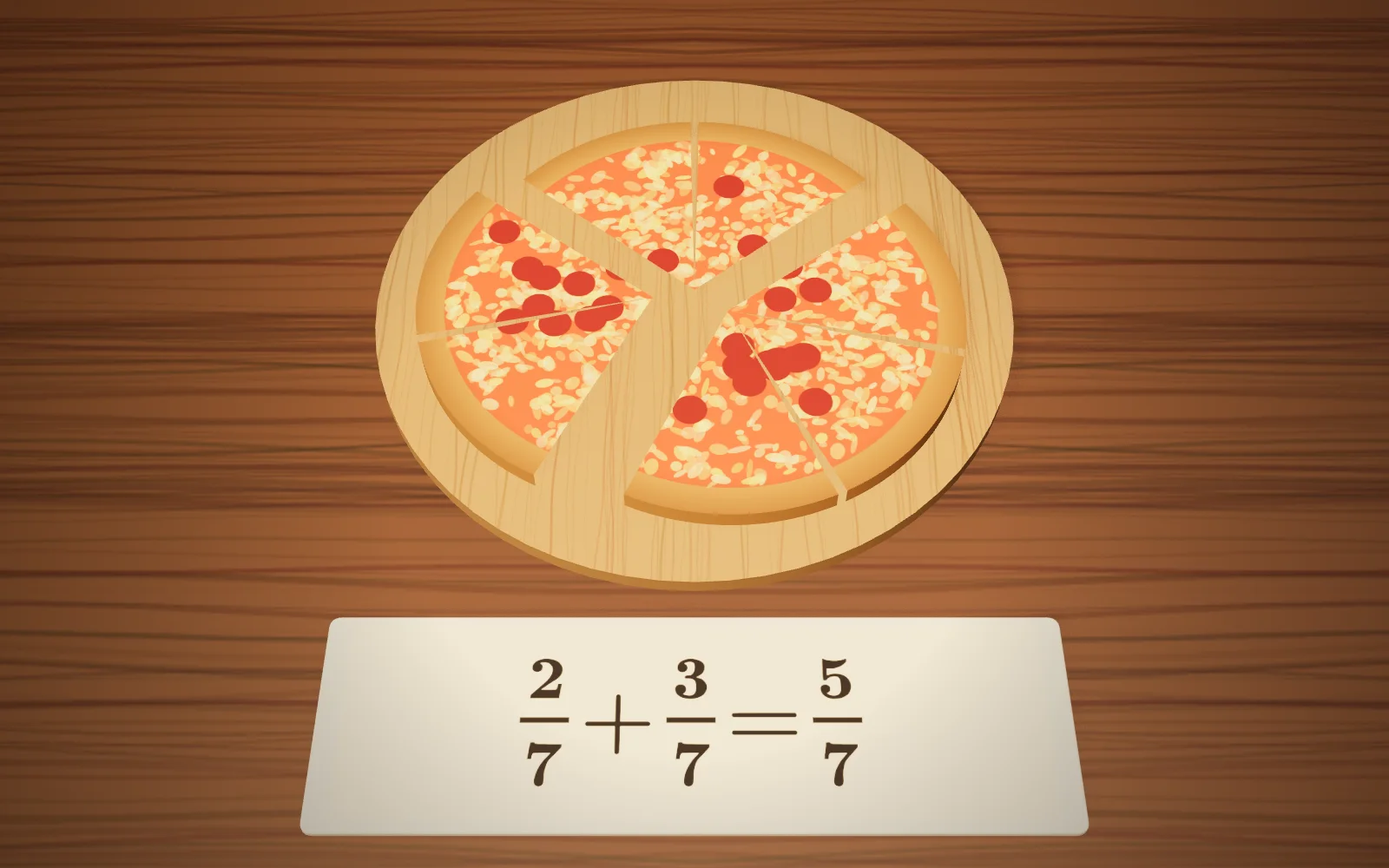
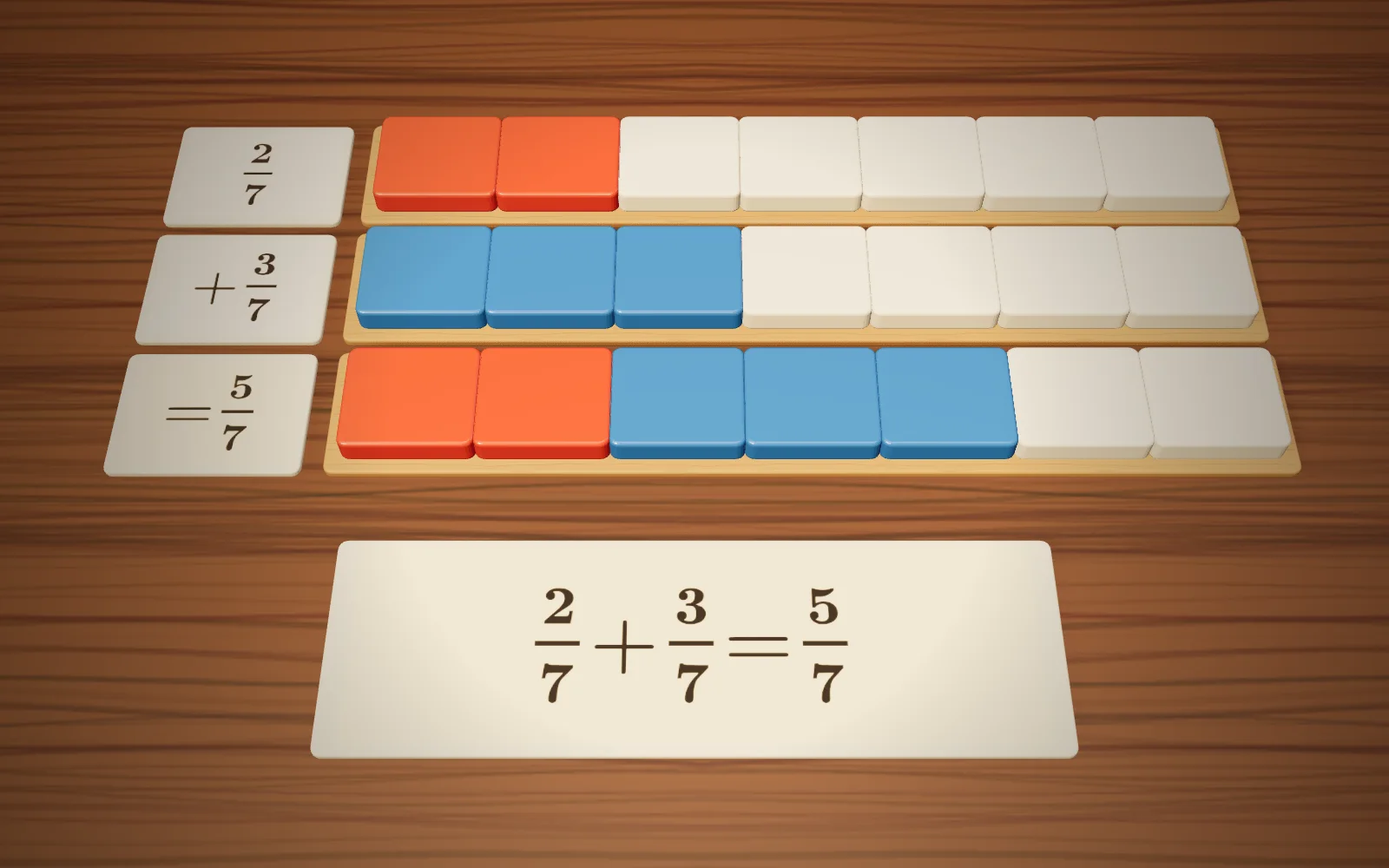
수의 마법 C-21 수업 그림·글: 피자 → 분수 막대, C-22 서술 문제 말도 막대로
- C-21 3D 장면: 7조각으로 나눈 막대 세 줄(빨강 2 · 파랑 3 · 합친 5), 줄 앞 이름표, 식 카드
- 움직임: 두 무리가 셋째 줄 위로 가서 합쳐지는 것을 보여 주고 돌아온다
- C-21 수업 글·서술 문제·힌트(ko·en·zh)의 피자 이야기를 분수 막대로 고침
- C-22 서술 문제의 「피자 그림으로」를 「분수 막대 그림으로」
- 정지 그림·그림 설명 글·오프라인 목록 갱신

Claude-Session: https://claude.ai/code/session_01T6HCktzZTCy63PeQAnPr61

diff --git a/number_magic/data/units/C-21.js b/number_magic/data/units/C-21.js
@@ -8,7 +8,7 @@ window.NM_UNITS['C-21'] = {
   generator:'ml_frac_same',
   title:{ ko:'분수 덧뺄셈 (같은 분모)', en:'Fractions: Same Denominator', zh:'分数加减法(同分母)' },
   subtitle:{ ko:'분모가 같으면 분자끼리만! 2/7 + 3/7 = 5/7', en:'Same denominator? Just add the numerators! 2/7 + 3/7 = 5/7', zh:'分母相同就只加分子！2/7 + 3/7 = 5/7' },
-  icon:'🍕',
+  icon:'📏',
 
   practice:{
     generator:'ml_frac_same', level:'practice', count:5,
@@ -31,11 +31,11 @@ window.NM_UNITS['C-21'] = {
     },
     title:{ ko:'누미의 마법 노트', en:"Numi's Magic Note", zh:'努米的魔法笔记' },
     stages:[
-      { tag:{ko:'① 분수는 피자 조각',en:'1) Fractions are pizza slices',zh:'① 分数是披萨块'},
-        head:{ko:'2/7 = 7조각 중 2조각',en:'2/7 = 2 slices out of 7',zh:'2/7 = 7块中的2块'},
-        desc:{ko:'피자 한 판을 <b>7조각</b>으로 잘랐어요. 내가 2조각을 가지면 <b>2/7</b>. 아래 수(분모 7)는 <b>조각의 크기</b>(한 판을 몇 개로 잘랐나), 위 수(분자 2)는 <b>내가 가진 개수</b>예요. 분수를 읽을 때 항상 "몇 조각짜리 중의 몇 개"로 떠올려요!',
-              en:'A pizza cut into <b>7 slices</b>. Take 2 slices — that\'s <b>2/7</b>. The bottom number (denominator 7) is the <b>slice size</b> (how many cuts per pizza); the top (numerator 2) is <b>how many you hold</b>. Always read a fraction as "this many pieces of that size"!',
-              zh:'一张披萨切成<b>7块</b>。我拿2块就是<b>2/7</b>。下面的数(分母7)是<b>块的大小</b>(一张切成几块)，上面的数(分子2)是<b>我拿的个数</b>。读分数时永远想成"某种大小的块拿了几个"！'},
+      { tag:{ko:'① 분수는 막대 조각',en:'1) Fractions are bar pieces',zh:'① 分数是分数条的块'},
+        head:{ko:'2/7 = 7조각 중 2조각',en:'2/7 = 2 pieces out of 7',zh:'2/7 = 7块中的2块'},
+        desc:{ko:'분수 막대 한 줄을 똑같이 <b>7조각</b>으로 나눴어요. 내가 2조각을 가지면 <b>2/7</b>. 아래 수(분모 7)는 <b>조각의 크기</b>(한 줄을 몇 개로 나눴나), 위 수(분자 2)는 <b>내가 가진 개수</b>예요. 분수를 읽을 때 항상 "몇 조각짜리 중의 몇 개"로 떠올려요!',
+              en:'A fraction bar cut into <b>7 equal pieces</b>. Take 2 pieces — that\'s <b>2/7</b>. The bottom number (denominator 7) is the <b>piece size</b> (how many pieces the bar is cut into); the top (numerator 2) is <b>how many you hold</b>. Always read a fraction as "this many pieces of that size"!',
+              zh:'一条分数条平均分成<b>7块</b>。我拿2块就是<b>2/7</b>。下面的数(分母7)是<b>块的大小</b>(一条分成几块)，上面的数(分子2)是<b>我拿的个数</b>。读分数时永远想成"某种大小的块拿了几个"！'},
         mathSteps:[{ko:'\\text{분모 = 조각 크기 (몇 등분?)}',en:'\\text{denominator = size of piece (cut into how many?)}',zh:'\\text{分母 = 每块的大小（分成几份？）}'},{ko:'\\text{분자 = 조각 개수 (몇 개?)}',en:'\\text{numerator = number of pieces (how many?)}',zh:'\\text{分子 = 块数（有几块？）}'},{ko:'\\dfrac{2}{7} = \\text{7등분 중 2개}',en:'\\dfrac{2}{7} = \\text{2 of 7 equal parts}',zh:'\\dfrac{2}{7} = \\text{7份中的2份}'}],
         result:{ko:'분모는 크기, 분자는 개수! 이것만 기억하면 분수가 쉬워요.',en:'Denominator = size, numerator = count! Remember this and fractions get easy.',zh:'分母是大小，分子是个数！记住这个，分数就简单。'},
         book:{ko:'분모(分母)는 "나눈 어머니", 분자(分子)는 "가진 아이"라는 한자예요. 어머니(분모)가 조각 세계를 만들고, 아이(분자)가 그 안에서 개수를 세요.',
@@ -44,20 +44,20 @@ window.NM_UNITS['C-21'] = {
 
       { tag:{ko:'② 같은 크기면 개수만 더해요',en:'2) Same size → just add counts',zh:'② 大小相同→只加个数'},
         head:{ko:'2/7 + 3/7 = 5/7 (분모는 그대로!)',en:'2/7 + 3/7 = 5/7 (denominator unchanged!)',zh:'2/7 + 3/7 = 5/7（分母不变！）'},
-        desc:{ko:'2조각 + 3조각 = 5조각. 조각의 <b>크기(분모)는 변하지 않으니</b> 2/7+3/7 = <b>5/7</b>. 가장 흔한 실수는 분모까지 더해서 5/14라고 하는 것! 피자로 생각해요 — 조각을 합쳐도 <b>피자가 더 잘게 잘리진 않죠?</b> 분모는 절대 더하지 않아요!',
-              en:'2 slices + 3 slices = 5 slices. The <b>size (denominator) doesn\'t change</b>, so 2/7+3/7 = <b>5/7</b>. The classic mistake is adding denominators to get 5/14! Think pizza — combining slices <b>doesn\'t re-cut the pizza finer</b>, does it? Never add the denominators!',
-              zh:'2块+3块=5块。块的<b>大小(分母)不变</b>，所以2/7+3/7 = <b>5/7</b>。最常见的错误是把分母也加起来得5/14！想想披萨——把块合起来<b>披萨不会被切得更碎</b>吧？分母绝对不加！'},
+        desc:{ko:'2조각 + 3조각 = 5조각. 조각의 <b>크기(분모)는 변하지 않으니</b> 2/7+3/7 = <b>5/7</b>. 가장 흔한 실수는 분모까지 더해서 5/14라고 하는 것! 막대로 생각해요 — 조각을 합쳐도 <b>막대가 더 잘게 나뉘진 않죠?</b> 분모는 절대 더하지 않아요!',
+              en:'2 pieces + 3 pieces = 5 pieces. The <b>size (denominator) doesn\'t change</b>, so 2/7+3/7 = <b>5/7</b>. The classic mistake is adding denominators to get 5/14! Think of the bar — combining pieces <b>doesn\'t cut the bar any finer</b>, does it? Never add the denominators!',
+              zh:'2块+3块=5块。块的<b>大小(分母)不变</b>，所以2/7+3/7 = <b>5/7</b>。最常见的错误是把分母也加起来得5/14！想想分数条——把块合起来<b>分数条不会被分得更碎</b>吧？分母绝对不加！'},
         mathSteps:['\\dfrac{2}{7} + \\dfrac{3}{7}','= \\dfrac{2+3}{7}','= \\dfrac{5}{7}'],
         result:{ko:'분자끼리만 더하기! 분모는 조각 크기라 그대로예요.',en:'Add numerators only! The denominator is the size — it stays.',zh:'只加分子！分母是块的大小，保持不变。'},
-        book:{ko:'주의: 답이 가분수가 되면(예: 4/5+3/5=7/5) 대분수 1과 2/5로 바꿔 쓸 수 있어요. 분자가 분모보다 크면 "피자 한 판이 넘는다"는 뜻!',
-              en:'Note: if the sum tops the denominator (4/5+3/5=7/5), you can rewrite it as the mixed number 1 and 2/5 — "more than one whole pizza"!',
-              zh:'注意：结果成假分数时(4/5+3/5=7/5)可写成带分数1又2/5——表示"超过一整张披萨"！'} },
+        book:{ko:'주의: 답이 가분수가 되면(예: 4/5+3/5=7/5) 대분수 1과 2/5로 바꿔 쓸 수 있어요. 분자가 분모보다 크면 "막대 한 줄이 넘는다"는 뜻!',
+              en:'Note: if the sum tops the denominator (4/5+3/5=7/5), you can rewrite it as the mixed number 1 and 2/5 — "more than one whole bar"!',
+              zh:'注意：结果成假分数时(4/5+3/5=7/5)可写成带分数1又2/5——表示"超过一整条"！'} },
 
       { tag:{ko:'③ 뺄셈도 똑같아요',en:'3) Subtraction works the same',zh:'③ 减法也一样'},
         head:{ko:'5/8 − 2/8 = 3/8',en:'5/8 − 2/8 = 3/8',zh:'5/8 − 2/8 = 3/8'},
-        desc:{ko:'빼기도 마찬가지! 5조각에서 2조각을 먹으면 3조각 남아요: 5/8−2/8 = <b>3/8</b>. 규칙은 하나 — <b>분모가 같을 때는 분자끼리만 계산</b>. 덧셈이든 뺄셈이든 조각의 크기는 변하지 않으니까요.',
-              en:'Subtracting is the same! Eat 2 of your 5 slices and 3 remain: 5/8−2/8 = <b>3/8</b>. One rule — <b>with equal denominators, operate on numerators only</b>. Adding or subtracting, the slice size never changes.',
-              zh:'减法也一样！5块吃掉2块剩3块：5/8−2/8 = <b>3/8</b>。规则只有一条——<b>分母相同时只算分子</b>。不管加还是减，块的大小都不变。'},
+        desc:{ko:'빼기도 마찬가지! 5조각에서 2조각을 덜어 내면 3조각 남아요: 5/8−2/8 = <b>3/8</b>. 규칙은 하나 — <b>분모가 같을 때는 분자끼리만 계산</b>. 덧셈이든 뺄셈이든 조각의 크기는 변하지 않으니까요.',
+              en:'Subtracting is the same! Take 2 of your 5 pieces away and 3 remain: 5/8−2/8 = <b>3/8</b>. One rule — <b>with equal denominators, operate on numerators only</b>. Adding or subtracting, the slice size never changes.',
+              zh:'减法也一样！5块拿走2块剩3块：5/8−2/8 = <b>3/8</b>。规则只有一条——<b>分母相同时只算分子</b>。不管加还是减，块的大小都不变。'},
         mathSteps:['\\dfrac{5}{8} - \\dfrac{2}{8}','= \\dfrac{5-2}{8}','= \\dfrac{3}{8}'],
         result:{ko:'5/8−2/8=3/8! 빼기도 분자끼리만.',en:'5/8−2/8=3/8! Subtract numerators only.',zh:'5/8−2/8=3/8！减法也只算分子。'},
         book:null }
@@ -74,12 +74,12 @@ window.NM_UNITS['C-21'] = {
       { tex:'\\dfrac{7}{10} - \\dfrac{3}{10} = \\dfrac{\\square}{10}', answer:4,
         hint:{ ko:'분자만: 7−3=?', en:'Numerators only: 7−3=?', zh:'只算分子：7−3=？' } }
     ],
-    open:{ ko:'친구가 1/4 + 2/4 = 3/8이라고 답했어요. 피자 그림으로 왜 틀렸는지 설명해 봐요.',
-      en:'A friend claims 1/4 + 2/4 = 3/8. Use a pizza picture to explain the mistake.',
-      zh:'朋友说1/4 + 2/4 = 3/8。用披萨图解释为什么错了。' },
-    openHint:{ ko:'예) 4등분 피자에서 1조각+2조각=3조각, 즉 3/4. 조각을 모아도 피자가 8등분으로 변하지 않아요. 분모를 더한 3/8은 실제(3/4)의 절반밖에 안 돼요!',
-      en:'e.g. On a pizza cut in 4: 1 slice + 2 slices = 3 slices = 3/4. Combining slices doesn\'t re-cut the pizza into 8. The "3/8" answer is only half the true amount (3/4)!',
-      zh:'例）切成4块的披萨：1块+2块=3块，即3/4。合并块不会把披萨变成8等分。加了分母的3/8只有真实量(3/4)的一半！' }
+    open:{ ko:'친구가 1/4 + 2/4 = 3/8이라고 답했어요. 분수 막대 그림으로 왜 틀렸는지 설명해 봐요.',
+      en:'A friend claims 1/4 + 2/4 = 3/8. Use a fraction-bar picture to explain the mistake.',
+      zh:'朋友说1/4 + 2/4 = 3/8。用分数条图解释为什么错了。' },
+    openHint:{ ko:'예) 4등분 막대에서 1조각+2조각=3조각, 즉 3/4. 조각을 모아도 막대가 8등분으로 변하지 않아요. 분모를 더한 3/8은 실제(3/4)의 절반밖에 안 돼요!',
+      en:'e.g. On a bar cut in 4: 1 piece + 2 pieces = 3 pieces = 3/4. Combining pieces doesn\'t re-cut the bar into 8. The "3/8" answer is only half the true amount (3/4)!',
+      zh:'例）分成4块的分数条：1块+2块=3块，即3/4。合并块不会把分数条变成8等分。加了分母的3/8只有真实量(3/4)的一半！' }
   },
 
   lab:{
@@ -101,7 +101,7 @@ window.NM_UNITS['C-21'] = {
   stamp:{ label:{ ko:'분수 견습생', en:'Fraction Apprentice', zh:'分数学徒' }, coins:30 },
 
   voice:{
-    correct:[ {ko:'정답이야! ✨',en:'Correct!',zh:'答对了！'}, {ko:'조각을 잘 셌어! 🍕',en:'Counted the slices!',zh:'块数得好！'}, {ko:'대단해! 🌟',en:'Amazing!',zh:'太棒了！'} ],
+    correct:[ {ko:'정답이야! ✨',en:'Correct!',zh:'答对了！'}, {ko:'조각을 잘 셌어! 👏',en:'Counted the pieces!',zh:'块数得好！'}, {ko:'대단해! 🌟',en:'Amazing!',zh:'太棒了！'} ],
     wrong:[ {ko:'분모는 그대로야!',en:'The denominator stays!',zh:'分母不变！'}, {ko:'분자끼리만 계산해봐!',en:'Operate on numerators only!',zh:'只算分子！'} ],
     finish:{ ko:'완벽해! 분수 견습생 합격! 🍕✨', en:'Perfect! Fraction Apprentice!', zh:'完美！分数学徒过关！' }
   }

diff --git a/number_magic/app/hero3d/scenes-e2.js b/number_magic/app/hero3d/scenes-e2.js
@@ -158,49 +158,48 @@ export const SCENES_E2 = {
     k.lights({ key:3.0, keyPos:[-4, 7, 5], spotPos:[0, 7, 2], spotAt:[0, 0, 0], spot:28 });
   }},
 
-  /* 분수 덧뺄셈(같은 분모) — stage ①②: 7조각 피자, 2조각 + 3조각 = 5조각, 2/7 + 3/7 = 5/7 */
+  /* 분수 덧뺄셈(같은 분모) — stage ①②: 7조각으로 나눈 분수 막대, 2조각 + 3조각 = 5조각, 2/7 + 3/7 = 5/7.
+     그림은 종이 교구와 같은 분수 막대 세 줄(원장 2026-11-10 「바꿔」 — 피자 → 분수 막대, C-22 와 같은 모양) */
   'C-21': { seed:2101, caps:{ P:8, list:[
-    [0.0, "피자 한 판을 똑같이 $7$조각으로 잘랐어요.", "A pizza is cut into $7$ equal slices.", "一张披萨平均切成$7$块。"],
-    [0.15, "$2$조각은 $\\dfrac{2}{7}$, $3$조각은 $\\dfrac{3}{7}$이에요.", "$2$ slices are $\\dfrac{2}{7}$ and $3$ slices are $\\dfrac{3}{7}$.", "$2$块是$\\dfrac{2}{7}$，$3$块是$\\dfrac{3}{7}$。"],
-    [0.5, "합치면 $5$조각이라 $\\dfrac{2}{7}+\\dfrac{3}{7}=\\dfrac{5}{7}$이에요.", "Together that is $5$ slices: $\\dfrac{2}{7}+\\dfrac{3}{7}=\\dfrac{5}{7}$.", "合起来是$5$块：$\\dfrac{2}{7}+\\dfrac{3}{7}=\\dfrac{5}{7}$。"],
-    [0.76, "조각 크기는 그대로라서 분모 $7$은 더하지 않아요.", "The slice size stays the same, so the $7$ is not added.", "每块大小不变，所以分母$7$不相加。"]
+    [0.0, "분수 막대 한 줄을 똑같이 $7$조각으로 나눴어요.", "A fraction bar is cut into $7$ equal pieces.", "一条分数条平均分成$7$块。"],
+    [0.15, "$2$조각은 $\\dfrac{2}{7}$, $3$조각은 $\\dfrac{3}{7}$이에요.", "$2$ pieces are $\\dfrac{2}{7}$ and $3$ pieces are $\\dfrac{3}{7}$.", "$2$块是$\\dfrac{2}{7}$，$3$块是$\\dfrac{3}{7}$。"],
+    [0.5, "합치면 $5$조각이라 $\\dfrac{2}{7}+\\dfrac{3}{7}=\\dfrac{5}{7}$이에요.", "Together that is $5$ pieces: $\\dfrac{2}{7}+\\dfrac{3}{7}=\\dfrac{5}{7}$.", "合起来是$5$块：$\\dfrac{2}{7}+\\dfrac{3}{7}=\\dfrac{5}{7}$。"],
+    [0.76, "조각 크기는 그대로라서 분모 $7$은 더하지 않아요.", "The piece size stays the same, so the $7$ is not added.", "每块大小不变，所以分母$7$不相加。"]
   ]},
     build(k){
-    const { THREE, scene } = k;
-    k.frame([0, 0, 0.15], 5.6, 56);
+    k.frame([-0.03, 0, -0.1], 5.9, 58);
     k.table();
-    const R = 1.1, CZ = -0.55, A = Math.PI * 2 / 7, BASE = Math.PI - 6 * A;
-    /* 나무 도마 */
-    const board = new THREE.Mesh(new THREE.CylinderGeometry(R + 0.4, R + 0.4, 0.08, 64), k.woodMat('#b98a55', [110, 70, 35]));
-    board.position.set(0, 0.04, CZ); board.castShadow = board.receiveShadow = true; scene.add(board);
-    /* 피자 윗면(치즈·토마토·페퍼로니·가장자리 빵) — 조각마다 같은 원형 좌표를 쓰므로 한 장으로 이어진다 */
-    const topTex = k.canvasTex(1024, 1024, (g, w, h) => {
-      g.fillStyle = '#c98a45'; g.fillRect(0, 0, w, h);
-      g.fillStyle = '#d9562e'; g.beginPath(); g.arc(w / 2, h / 2, w * 0.44, 0, Math.PI * 2); g.fill();
-      for(let i = 0; i < 900; i++){ const a = k.rnd() * Math.PI * 2, r = Math.sqrt(k.rnd()) * w * 0.43; g.fillStyle = `rgba(${245 + k.rnd() * 10},${200 + k.rnd() * 40},${90 + k.rnd() * 60},${0.35 + k.rnd() * 0.4})`;
-        g.beginPath(); g.ellipse(w / 2 + Math.cos(a) * r, h / 2 + Math.sin(a) * r, 8 + k.rnd() * 18, 5 + k.rnd() * 10, k.rnd() * 3, 0, Math.PI * 2); g.fill(); }
-      for(let i = 0; i < 24; i++){ const a = k.rnd() * Math.PI * 2, r = (0.08 + k.rnd() * 0.3) * w; g.fillStyle = '#9b2a1c';
-        g.beginPath(); g.arc(w / 2 + Math.cos(a) * r, h / 2 + Math.sin(a) * r, w * 0.035, 0, Math.PI * 2); g.fill(); }
-      const gr = g.createRadialGradient(w / 2, h / 2, w * 0.42, w / 2, h / 2, w * 0.5); gr.addColorStop(0, 'rgba(120,70,20,0)'); gr.addColorStop(1, 'rgba(120,70,20,.5)'); g.fillStyle = gr; g.fillRect(0, 0, w, h); });
-    const topM = new THREE.MeshStandardMaterial({ map:topTex, roughness:0.7 }), crust = new THREE.MeshStandardMaterial({ color:'#c98a45', roughness:0.8 });
-    const slices = [];
-    for(let i = 0; i < 7; i++){
-      const m = new THREE.Mesh(new THREE.CylinderGeometry(R, R, 0.09, 24, 1, false, BASE + i * A + 0.02, A - 0.04), [crust, topM, crust]);
-      m.castShadow = m.receiveShadow = true;
-      const g = new THREE.Group(); g.add(m); const c = BASE + (i + 0.5) * A; g.userData.dir = new THREE.Vector3(Math.sin(c), 0, Math.cos(c));
-      g.position.set(0, 0.125, CZ); scene.add(g); slices.push(g); }
-    /* 2조각 무리(0,1)와 3조각 무리(2,3,4)를 살짝 빼 둔다 — 두 무리의 가운데 방향으로 */
-    const dirOf = ids => ids.reduce((v, i) => v.add(slices[i].userData.dir), new THREE.Vector3()).normalize();
-    const GA = [0, 1], GB = [2, 3, 4], dA = dirOf(GA), dB = dirOf(GB), OUT = 0.2;
-    const place = (ids, d, s, y) => ids.forEach(i => slices[i].position.set(d.x * s, 0.125 + y, CZ + d.z * s));
-    place(GA, dA, OUT, 0); place(GB, dB, OUT, 0);
-    /* 식 카드 */
-    cardF(k, [{ n:'2', d:'7' }, '+', { n:'3', d:'7' }, '=', { n:'5', d:'7' }], 0, 1.55, { w:3.0, d:0.9, fs:0.34, bg:'#f1e0b8' });
-    /* 움직임: 2조각 무리 → 3조각 무리가 차례로 들렸다 놓이고, 둘이 함께 들썩(합쳐서 5조각) */
+    /* 길이가 같은 7등분 막대 세 줄: 빨강 2조각 · 파랑 3조각 · 빨강 2 + 파랑 3 */
+    const L = 4.4, D = 0.52, H = 0.14, X0 = -1.68, GAP = 0.03, Y0 = 0.05, ZR = [-1.7, -0.95, -0.2], W = L / 7;
+    const red = k.plastic('#d0462f', 0.3), blue = k.plastic('#3a7cc4', 0.3), pale = k.plastic('#efe4cf', 0.5);
+    const tray = k.woodMat('#b98a55', [110, 70, 35]);
+    const bar = (z, mats) => {
+      k.tile(null, X0 + L / 2, z, { w:L + 0.14, d:D + 0.14, h:Y0, side:tray, rad:0.04 });
+      return mats.map((m, i) => k.tile(null, X0 + W * (i + 0.5), z, { w:W - GAP, d:D, h:H, y:Y0, side:m, rad:0.035 })); };
+    const two = bar(ZR[0], [red, red, pale, pale, pale, pale, pale]);
+    const three = bar(ZR[1], [blue, blue, blue, pale, pale, pale, pale]);
+    const five = bar(ZR[2], [red, red, blue, blue, blue, pale, pale]);
+    /* 줄 앞 이름표: 2/7 · + 3/7 · = 5/7 */
+    const LO = { w:0.9, d:0.66, fs:0.27 };
+    cardF(k, [{ n:'2', d:'7' }], X0 - 0.65, ZR[0], LO);
+    cardF(k, ['+', { n:'3', d:'7' }], X0 - 0.65, ZR[1], LO);
+    cardF(k, ['=', { n:'5', d:'7' }], X0 - 0.65, ZR[2], Object.assign({}, LO, { bg:'#f1e0b8' }));
+    const eq = cardF(k, [{ n:'2', d:'7' }, '+', { n:'3', d:'7' }, '=', { n:'5', d:'7' }], -0.03, 1.0, { w:3.2, d:1.0, fs:0.34, bg:'#f1e0b8' });
+    /* 움직임: 첫 줄 7조각이 차례로 톡톡(7조각으로 나눔) → 빨강 2조각 · 파랑 3조각이 한 번씩 →
+       빨강 2조각이 셋째 줄 빨강 위로 갔다 오고, 파랑 3조각이 두 칸 옆 파랑 위로 갔다 옴(합치기) → 5조각 함께 → 식 카드 */
+    const xs = two.map(g => g.position.x);
+    const trip = (p, a) => seg(p, a, a + 0.04) * (1 - seg(p, a + 0.08, a + 0.12));
     k.onFrame(t => { const p = cyc(t, 8);
-      const a = hop(p, 0.15, 0.3), b = hop(p, 0.32, 0.47), c = hop(p, 0.52, 0.7);
-      place(GA, dA, OUT + 0.15 * a, 0.25 * Math.max(a, c)); place(GB, dB, OUT + 0.15 * b, 0.25 * Math.max(b, c)); });
-    k.lights({ key:3.0, keyPos:[-4, 7, 5], spotPos:[0, 7, 2], spotAt:[0, 0, 0], spot:28 });
+      const ur = trip(p, 0.5), ub = trip(p, 0.63);
+      two.forEach((g, i) => { const a = 0.01 + i * 0.016;
+        const y = 0.1 * hop(p, a, a + 0.05) + (i < 2 ? 0.2 * hop(p, 0.17, 0.3) + 0.36 * Math.min(1, ur * 3) : 0);
+        g.position.set(xs[i], Y0 + y, ZR[0] + (i < 2 ? (ZR[2] - ZR[0]) * ur : 0)); });
+      three.forEach((g, i) => { if(i > 2) return;
+        g.position.set(xs[i] + 2 * W * ub, Y0 + 0.2 * hop(p, 0.3, 0.43) + 0.36 * Math.min(1, ub * 3), ZR[1] + (ZR[2] - ZR[1]) * ub); });
+      five.forEach((g, i) => { if(i > 4) return; const a = i < 2 ? 0.53 : 0.66;
+        g.position.y = Y0 + Math.max(0.1 * hop(p, a, a + 0.07), 0.2 * hop(p, 0.76 + i * 0.008, 0.86)); });
+      eq.position.y = 0.16 * hop(p, 0.86, 0.97); });
+    k.lights({ key:3.0, keyPos:[-4, 7, 5], spotPos:[0, 7, 2], spotAt:[0, 0, -0.5], spot:28 });
   }},
 
   /* 창살 곱셈법 — stage ③: 342 × 67. 칸마다 곱(18 24 12 / 21 28 14), 대각선 띠를 더하면 2 2 9 1 4 */

diff --git a/number_magic/data/hero3d.js b/number_magic/data/hero3d.js
@@ -110,7 +110,7 @@ window.NM_HERO3D = {
   'A-35': { alt:{ ko:"로마 수 블록 V, I, I, I 옆에 빨간 블록 8이 있고, 블록 아래에 5, 1, 1, 1 카드와 5 + 1 + 1 + 1 = 8 카드가 놓여 있어요.", en:"Roman numeral blocks V, I, I, I stand beside a red block 8, with cards 5, 1, 1, 1 below them and a card reading 5 + 1 + 1 + 1 = 8.", zh:"罗马数字木块V、I、I、I旁边是红色木块8，下面放着5、1、1、1的卡片和5 + 1 + 1 + 1 = 8的卡片。" } },
   'C-10': { alt:{ ko:"가로 20과 3, 세로 40과 5로 나뉜 나무 판 네 조각에 800, 120, 100, 15가 적혀 있고, 앞에 23 × 45 = 1035 카드가 있어요.", en:"Four wooden pieces, split into 20 and 3 across and 40 and 5 down, show 800, 120, 100 and 15, with a card reading 23 × 45 = 1035 in front.", zh:"横向分成20和3、纵向分成40和5的四块木板上写着800、120、100、15，前面有23 × 45 = 1035的卡片。" } },
   'C-18': { alt:{ ko:"백 판 하나와 낱개 블록 네 개씩 세 묶음이 있고, 묶음마다 100 + 4 카드, 앞에는 312 ÷ 3 = 104 카드가 있어요.", en:"Three groups each hold one hundred-flat and four unit cubes, each with a 100 + 4 card, and a card in front reads 312 ÷ 3 = 104.", zh:"三组各有一块百格板和四个小方块，每组配一张100 + 4的卡片，前面是312 ÷ 3 = 104的卡片。" } },
-  'C-21': { alt:{ ko:"도마 위 피자가 똑같이 7조각으로 잘려 있고, 2조각과 3조각이 살짝 빠져 있어요. 앞 카드에는 7분의 2 더하기 7분의 3은 7분의 5라고 쓰여 있어요.", en:"A pizza on a board is cut into 7 equal slices, with a group of 2 and a group of 3 pulled out a little. The card in front shows 2 over 7 plus 3 over 7 equals 5 over 7.", zh:"木板上的披萨平均切成7块，其中2块和3块稍稍拉开。前面的卡片写着7分之2加7分之3等于7分之5。" } },
+  'C-21': { alt:{ ko:"똑같이 7조각으로 나눈 분수 막대 세 줄이 있어요. 첫 줄은 빨강 2조각, 둘째 줄은 파랑 3조각, 셋째 줄은 빨강 2조각과 파랑 3조각이에요. 아래 카드에는 7분의 2 더하기 7분의 3은 7분의 5라고 쓰여 있어요.", en:"Three fraction bars, each cut into 7 equal pieces: the first has 2 red pieces, the second has 3 blue pieces, and the third has 2 red and 3 blue pieces. The card below shows 2 over 7 plus 3 over 7 equals 5 over 7.", zh:"三条都平均分成7块的分数条：第一条有2块红色，第二条有3块蓝色，第三条有2块红色和3块蓝色。下面的卡片写着7分之2加7分之3等于7分之5。" } },
   'C-14': { alt:{ ko:"종이 위 창살 격자 위쪽에 3 4 2, 오른쪽에 6 7이 있고, 빗금 칸에 18, 24, 12, 21, 28, 14가 적혀 있어요. 가장자리의 빨간 숫자 2 2 9 1 4와 342 × 67 = 22914 카드가 답이에요.", en:"A lattice grid on paper has 3 4 2 across the top and 6 7 down the right side, with 18, 24, 12, 21, 28, 14 in the slashed boxes. The red digits 2 2 9 1 4 around the edge and a card reading 342 × 67 = 22914 give the answer.", zh:"纸上的格子上方是3 4 2，右边是6 7，斜线格里写着18、24、12、21、28、14。边上的红色数字2 2 9 1 4和342 × 67 = 22914的卡片就是答案。" } },
   'C-19': { alt:{ ko:"사탕이 7개씩 세 무더기 있고, 앞에 84 ÷ 12 = 42 ÷ 6 = 21 ÷ 3 = 7 카드가 한 줄로 놓여 있어요.", en:"Three piles of 7 candies sit behind a row of cards reading 84 ÷ 12 = 42 ÷ 6 = 21 ÷ 3 = 7.", zh:"三堆糖果每堆7颗，前面一排卡片写着84 ÷ 12 = 42 ÷ 6 = 21 ÷ 3 = 7。" } },
   'C-09': { alt:{ ko:"뒤에는 40 × 30 = 1200 카드가 있고, 앞에는 47 × 38 = 카드 옆에 숫자 카드 1, 7, 8, 6이 놓여 있어요.", en:"A card reading 40 × 30 = 1200 lies at the back, and in front a card reading 47 × 38 = sits next to digit cards 1, 7, 8, 6.", zh:"后面是40 × 30 = 1200的卡片，前面47 × 38 =的卡片旁摆着数字卡1、7、8、6。" } },

diff --git a/number_magic/data/units/C-22.js b/number_magic/data/units/C-22.js
@@ -32,7 +32,7 @@ window.NM_UNITS['C-22'] = {
     title:{ ko:'누미의 마법 노트', en:"Numi's Magic Note", zh:'努米的魔法笔记' },
     stages:[
       { tag:{ko:'① 크기가 다르면 못 더해요',en:'1) Different sizes can\'t be added',zh:'① 大小不同不能加'},
-        head:{ko:'반쪽 + 3분의 1쪽 = ? 조각이 달라요!',en:'A half + a third = ? The slices differ!',zh:'半块+三分之一块=？块不一样！'},
+        head:{ko:'반쪽 + 3분의 1쪽 = ? 조각이 달라요!',en:'A half + a third = ? The pieces differ!',zh:'半块+三分之一块=？块不一样！'},
         desc:{ko:'1/2 + 1/3을 분자끼리 더해 2/5라고 하면 <b>틀려요!</b> 반쪽(1/2)과 3분의 1쪽(1/3)은 <b>조각 크기가 달라서</b> 개수만 더하면 안 돼요. 사과 2개+귤 3개를 "5사과"라고 못 부르는 것과 같아요. 먼저 <b>같은 크기의 조각으로 바꿔야</b> 해요!',
               en:'Adding numerators in 1/2 + 1/3 to get 2/5 is <b>wrong!</b> A half and a third are <b>different-sized pieces</b>, so counting them together fails — like calling 2 apples + 3 oranges "5 apples". We must first <b>convert to equal-sized pieces</b>!',
               zh:'把1/2 + 1/3的分子直接相加得2/5是<b>错的！</b>半块和三分之一块<b>大小不同</b>，不能只数个数——就像2个苹果+3个橘子不能叫"5个苹果"。必须先<b>换成同样大小的块</b>！'},
@@ -74,9 +74,9 @@ window.NM_UNITS['C-22'] = {
       { tex:'\\dfrac{2}{3} - \\dfrac{1}{2} = \\dfrac{\\square}{6}', answer:1,
         hint:{ ko:'2/3=4/6, 1/2=3/6, 4/6−3/6=?', en:'2/3=4/6, 1/2=3/6, 4/6−3/6=?', zh:'2/3=4/6，1/2=3/6，4/6−3/6=？' } }
     ],
-    open:{ ko:'1/2 + 1/3이 2/5가 아닌 이유를 피자 그림으로 설명하고 진짜 답을 구해 봐요.',
-      en:'Using pizza pictures, explain why 1/2 + 1/3 isn\'t 2/5, and find the real answer.',
-      zh:'用披萨图解释为什么1/2 + 1/3不是2/5，并求出真正的答案。' },
+    open:{ ko:'1/2 + 1/3이 2/5가 아닌 이유를 분수 막대 그림으로 설명하고 진짜 답을 구해 봐요.',
+      en:'Using fraction-bar pictures, explain why 1/2 + 1/3 isn\'t 2/5, and find the real answer.',
+      zh:'用分数条图解释为什么1/2 + 1/3不是2/5，并求出真正的答案。' },
     openHint:{ ko:'예) 반쪽과 3분의 1쪽은 크기가 달라 개수로 못 더해요. 둘 다 6등분으로 자르면 3조각+2조각=5조각 → 5/6. 참고로 2/5(=0.4)는 1/2(=0.5)보다도 작아서 말이 안 돼요!',
       en:'e.g. A half and a third are different sizes. Re-cut both into sixths: 3+2=5 sixths → 5/6. Note 2/5 (=0.4) is even smaller than 1/2 (=0.5) alone — impossible!',
       zh:'例）半块和三分之一块大小不同不能直接数。都切成6等分：3块+2块=5块→5/6。而且2/5(=0.4)比单独的1/2(=0.5)还小——不可能！' }
